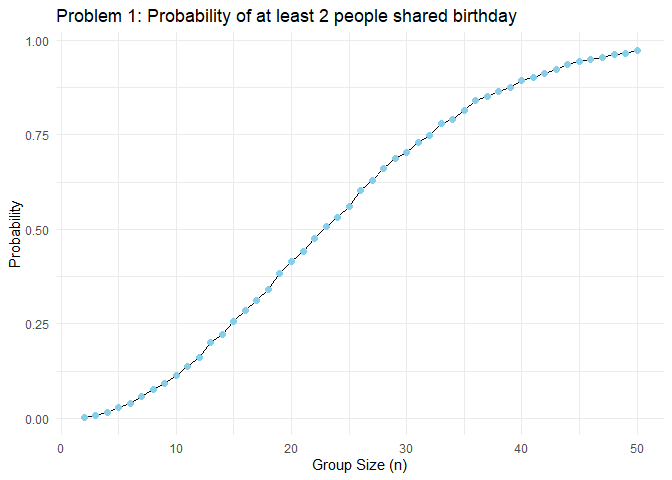
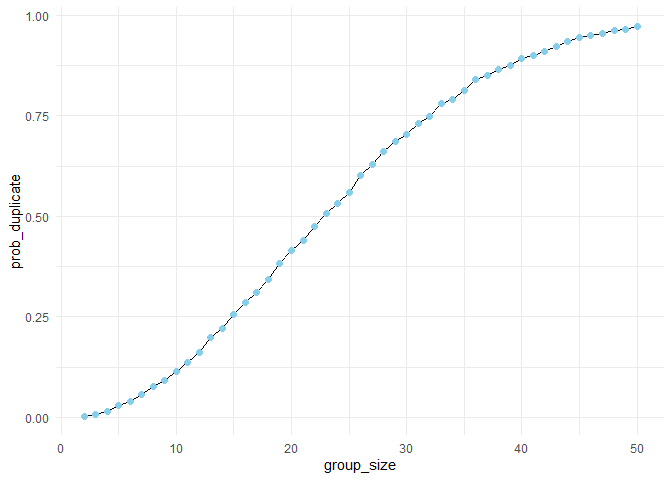
Complete Problem 2

diff --git a/p8105_hw5_ns3923.md b/p8105_hw5_ns3923.md
@@ -65,17 +65,129 @@ Repeat_group |>
   ggplot(aes(x = group_size, y = prob_duplicate)) +
   geom_line() +
   geom_point(size = 2, color = "skyblue") +
-  labs(
-    title = "Problem 1: Probability of at least 2 people shared birthday",
-    x = "Group Size (n)",
-    y = "Probability"
-  ) +
   theme_minimal()
 ```
 
 ![](p8105_hw5_ns3923_files/figure-gfm/P1_3-1.png)<!-- -->
 
+``` r
+  labs(
+    title = "Problem 1: Probability of at least 2 people shared birthday",
+    x = "Group Size (n)",
+    y = "Probability"
+  ) 
+```
+
+    ## <ggplot2::labels> List of 3
+    ##  $ x    : chr "Group Size (n)"
+    ##  $ y    : chr "Probability"
+    ##  $ title: chr "Problem 1: Probability of at least 2 people shared birthday"
+
 **Explain:** The trend is upward as the group size increases, meaning
 that larger groups have a higher probability of two people sharing a
 birthday. The probability rises and approaches 1 as the group becomes
 larger. Around 23 people, the chance of a shared birthday is about 50%.
+
+## Problem 2
+
+**Goal:** To conduct a simulation to explore power in a one-sample
+t-test by simulating 5,000 datasets for each true mean
+`μ ∈ {0,1,2,3,4,5,6}` with n = 30 and σ = 5.
+
+**1) Set the design elements: n=30, σ=5, μ=0**
+
+``` r
+set.seed(123)
+
+n        = 30
+sigma    = 5
+mu_values = 0:6
+```
+
+**2) Generate 5,000 datasets from the model x∼Normal\[μ,σ\]**
+
+``` r
+##Create a function to simulate one dataset and run a one-sample t-test
+sim_ttest = function(mu) {
+  x = rnorm(n, mean = mu, sd = sigma)
+  broom::tidy(t.test(x, mu = 0)) |>
+  dplyr::select(estimate, p.value)
+}
+
+##Repeat the simulation 5,000 times for each μ
+sim_results =
+  expand_grid(mu = mu_values, iter = 1:5000) |>
+  mutate(test_res = map(mu, sim_ttest)) |>
+  unnest(test_res) |>
+  mutate(reject = p.value < 0.05)
+```
+
+**3) Plot power curve and mean-estimate plots**
+
+``` r
+## power curve
+power_df =
+  sim_results |>
+  group_by(mu) |>
+  summarize(power = mean(reject), .groups = "drop")
+
+power_df |>
+  ggplot(aes(x = mu, y = power)) +
+  geom_line() +
+  geom_point(size = 2, color = "skyblue") +
+  theme_minimal() +
+  labs(
+    title = "Problem 2: Power for One-Sample t-Test (n = 30, σ = 5, α = 0.05)",
+    x = "True mean (μ)",
+    y = "Power of the test"
+  ) 
+```
+
+![](p8105_hw5_ns3923_files/figure-gfm/P2_3-1.png)<!-- -->
+
+**Explain:** As the true mean increases, the power of the test also
+increases. Therefore, there is a positive association between effect
+size and power, meaning that larger effect sizes are more likely to lead
+the test to detect a true difference and reject the null hypothesis.
+From the beginning, the true mean is close to 0 and the power is around
+0.05, reflecting the significance level of 5%.
+
+``` r
+## mean-estimate plots
+mean_estimates =
+  sim_results |>
+  group_by(mu) |>
+  summarize(
+    mean_all   = mean(estimate),
+    mean_reject = mean(estimate[reject]),
+    .groups = "drop"
+  )
+
+mean_estimates |>
+  pivot_longer(mean_all:mean_reject,
+               names_to = "set", values_to = "avg_est") |>
+  mutate(set = recode(set,
+                      mean_all   = "All samples",
+                      mean_reject = "Only when the null (H0) rejected")) |>
+  ggplot(aes(x = mu, y = avg_est, color = set)) +
+  geom_line() +
+  geom_point(size = 2) +
+  theme_minimal() +
+  labs(
+    title = "Problem 2: Average Estimated Mean vs True Mean",
+    x = "True mean (μ)",
+    y = "Average of sample mean"
+  ) 
+```
+
+![](p8105_hw5_ns3923_files/figure-gfm/unnamed-chunk-1-1.png)<!-- -->
+
+**Is the average of sample mean across tests for which the null is
+rejected approximately equal to the true value of μ? Why or why not?**
+**Answer:** Even though the red line (all samples) and the blue line
+(only when rejecting the null) seem close and look almost identical at
+higher true means, the average sample mean is not equal to the true
+mean, especially when the true mean is small. The blue line is clearly
+higher than the red line, showing that the average of the sample means
+tends to overestimate the true mean. As a result, their average is
+slightly higher than the true mean.
